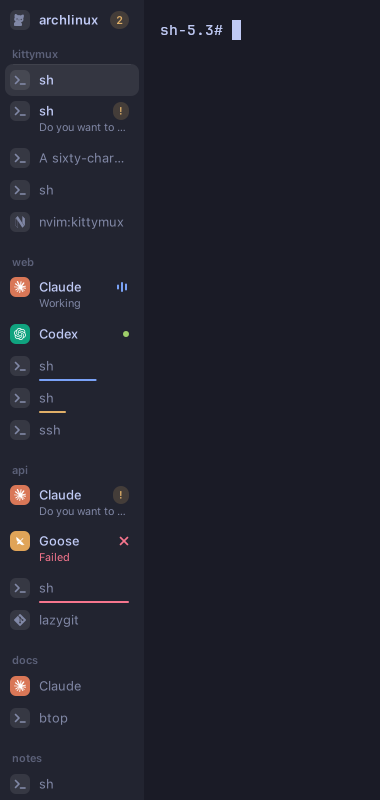
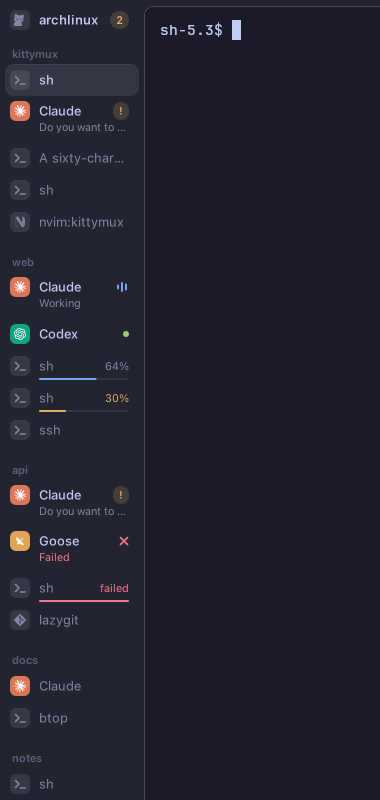
Pixel tab bar, tested on the real compositor (Hyprland, 1.33x): glass (the picture's alpha follows background_opacity, a little denser than the terminal), the terminal a rounded card resting on the bar's material (the shader insets it 6 px and rounds 10 px), the hover half a step under the active ca

diff --git a/python/kittymux_pxbar.py b/python/kittymux_pxbar.py
@@ -53,12 +53,13 @@ def publish(os_window_id: int, groups, pal, host: str = "") -> bool:
         clear(os_window_id)
         return False
     right, fb_h, scale = m
+    alpha = material_alpha()
     rows = [r for g in groups for r in g.rows]
     active = next((r.tab_id for r in rows if r.active), 0)
     view = _S.view.setdefault(os_window_id, {"start": 0, "user": False, "active": active})
     if view["active"] != active:                 # you moved to another tab: the view follows it again
         view.update(user=False, active=active)
-    sig = (tuple(groups), pal, right, fb_h, scale, host, view["start"], view["user"])
+    sig = (tuple(groups), pal, right, fb_h, scale, host, view["start"], view["user"], alpha)
     w = _S.windows.get(os_window_id)
     if w is not None and w.get("sig") == sig:
         return False
@@ -67,13 +68,15 @@ def publish(os_window_id: int, groups, pal, host: str = "") -> bool:
     pic = None
     for _ in range(4):                           # at most a few renders: the "↑ above" band changes how many fit
         pic = bp.render(groups, pal, width=right / scale, height=fb_h / scale, scale=scale, host=host,
-                        resources=_resources(), start=view["start"])
+                        resources=_resources(), start=view["start"], alpha=alpha)
         i = next((k for k, r in enumerate(rows) if r.tab_id == active), None)
         if view["user"] or i is None or pic.start <= i < pic.start + max(1, pic.shown):
             break
-        view["start"] = i if i < pic.start else max(0, i - max(1, pic.shown) + 1)
+        shown = max(1, pic.shown)
+        margin = min(MARGIN, max(0, shown - 1) // 2)          # a little context around the active tab, never past the ends
+        view["start"] = max(0, i - margin) if i < pic.start else max(0, i - shown + 1 + min(margin, len(rows) - 1 - i))
     view["start"] = pic.start
-    sig = (tuple(groups), pal, right, fb_h, scale, host, view["start"], view["user"])
+    sig = (tuple(groups), pal, right, fb_h, scale, host, view["start"], view["user"], alpha)
     from kitty.fast_data_types import get_boss, mark_os_window_dirty, wakeup_main_loop
     get_boss().set_background_image(PLACEHOLDER, (os_window_id,), False, "clamped", png_data=pic.png)
     mark_os_window_dirty(os_window_id)
@@ -92,6 +95,26 @@ def page(os_window_id: int, direction: int) -> None:
     step = max(1, int(w.get("shown") or 1) - 1)
     view["start"] = max(0, min(int(w.get("total") or 0) - 1, view["start"] + direction * step))
     view["user"] = True
+
+
+def glass_alpha(opacity) -> float:
+    """The sidebar as material: a little denser than the terminal's background_opacity (a structural surface reads
+    heavier than the content beside it), opaque when the window is."""
+    try:
+        op = float(opacity)
+    except (TypeError, ValueError):
+        return 1.0
+    if op >= 1.0:
+        return 1.0
+    return round(min(1.0, op + (1.0 - op) * 0.35), 3)
+
+
+def material_alpha() -> float:
+    try:
+        from kitty.fast_data_types import get_options
+        return glass_alpha(getattr(get_options(), "background_opacity", 1.0))
+    except Exception:
+        return 1.0
 
 
 def configured_background(opts) -> tuple:
@@ -133,6 +156,7 @@ def band_at(os_window_id: int, x_px: float, y_px: float):
     return None
 
 
+MARGIN = 2              # tab rows kept in view beyond the active one when the view follows it
 CLOSE_W = 34            # logical px at a row's right end that are the close cross (matches the shader's cover)
 TITLE_LINE = 32         # logical px: the cross sits in a row's first line
 

diff --git a/python/kittymux_barpx.py b/python/kittymux_barpx.py
@@ -170,7 +170,29 @@ def _end(pt: dp.Painter, row: G.Row, right, cy, p, narrow) -> float:
         w = pt.text_w(row.age, T_META, family=UI, tnum=True)
         pt.text(right - w, cy, row.age, T_META, tone, family=UI, tnum=True)
         return w
+    if row.progress and row.progress[0] not in ("indeterminate",):
+        pst, pct = row.progress
+        label = "failed" if pst == "error" else f"{max(0, min(100, int(pct or 0)))}%"
+        tone = {"error": p.alert, "paused": p.waiting}.get(pst, p.muted)
+        w = pt.text_w(label, T_META, family=UI, tnum=True)
+        pt.text(right - w, cy, label, T_META, tone, family=UI, tnum=True)
+        return w
     return 0
+
+
+def _progress(pt: dp.Painter, x, y, w, row: G.Row, p):
+    """OSC 9;4 progress under the row: a faint track the length of the text column and its fill, so it reads as progress and
+    not as an underline. Indeterminate fills the track at half strength."""
+    pst, pct = row.progress
+    c, a = pt.veil(0.08)
+    pt.fill_rrect(x, y, w, 2, 1, c, a)
+    col = {"error": p.alert, "paused": p.waiting}.get(pst, p.working)
+    if pst == "indeterminate":
+        pt.fill_rrect(x, y, w, 2, 1, col, 0.45)
+        return
+    frac = 1.0 if pst == "error" else max(0.0, min(1.0, (pct or 0) / 100))
+    if frac > 0:
+        pt.fill_rrect(x, y, max(2.0, w * frac), 2, 1, col)
 
 
 RAIL_MAX = 130      # logical px: narrower than this the bar is the rail (tiles only, a state dot on each tile)
@@ -354,10 +376,7 @@ def render(groups, pal: th.Palette, width: int, height: int, *, host: str = "", 
                 mt = {"waiting": pal.muted, "alert": pal.alert, "working": pal.muted}.get(row.meta_tone, pal.faint)
                 pt.text(tx, y + 31, row.meta, T_META, mt, family=UI, width=max(10, right - tx))
             if row.progress:
-                pst, pct = row.progress
-                frac = 1.0 if pst in ("error", "indeterminate") else max(0.0, min(1.0, (pct or 0) / 100))
-                col = {"error": pal.alert, "paused": pal.waiting}.get(pst, pal.working)
-                pt.fill_rrect(tx, y + h - 3, (right - tx) * frac, 2, 1, col)
+                _progress(pt, tx, y + h - 4, right - tx, row, pal)
             hits.append(Hit("tab", y0, y1, tab_id=row.tab_id))
             y += h
     below = total - start - shown

diff --git a/tests/test_pxbar.py b/tests/test_pxbar.py
@@ -186,7 +186,7 @@ class ViewportFollowTest(unittest.TestCase):
         PX._S.windows.clear()
         PX._S.view.clear()
 
-        def fake_render(groups, pal, width, height, scale, host, resources, start):
+        def fake_render(groups, pal, width, height, scale, host, resources, start, alpha=1.0):
             total = sum(len(g.rows) for g in groups)
             start = max(0, min(start, total - 1))
             shown = min(10, total - start)
@@ -209,7 +209,7 @@ class ViewportFollowTest(unittest.TestCase):
 
     def test_the_active_tab_is_scrolled_into_view(self):
         PX.publish(3, self.groups(35), None)
-        self.assertEqual(PX._S.view[3]["start"], 25)          # rows 26..35: the active 35th is the last one shown
+        self.assertEqual(PX._S.view[3]["start"], 27)          # rows 28..37: the active 35th with two more under it
 
     def test_a_page_click_scrolls_and_stays_until_you_change_tab(self):
         PX.publish(3, self.groups(5), None)
@@ -218,9 +218,17 @@ class ViewportFollowTest(unittest.TestCase):
         PX.publish(3, self.groups(5), None)
         self.assertEqual(PX._S.view[3]["start"], 9)           # a page is the rows shown less one, so one row carries over
         PX.publish(3, self.groups(2), None)
-        self.assertEqual(PX._S.view[3]["start"], 1)           # you went to tab 2 (row index 1): the view starts on it
+        self.assertEqual(PX._S.view[3]["start"], 0)           # you went to tab 2 (row index 1): back in view, one row of context above
 
     def test_clearing_the_picture_forgets_the_view(self):
         PX.publish(3, self.groups(35), None)
         PX.clear(3)
         self.assertNotIn(3, PX._S.view)
+
+
+class GlassTest(unittest.TestCase):
+    def test_the_sidebar_is_a_little_denser_than_the_terminal(self):
+        self.assertEqual(PX.glass_alpha(1.0), 1.0)
+        self.assertEqual(PX.glass_alpha(0.85), 0.902)
+        self.assertGreater(PX.glass_alpha(0.6), 0.6)
+        self.assertEqual(PX.glass_alpha("bogus"), 1.0)

diff --git a/docs/agents/layout.md b/docs/agents/layout.md
@@ -19,7 +19,7 @@ Part of the agent guide: start at [AGENTS.md](../../AGENTS.md) (the rules and th
 - `python/kittymux_wmfocus.py` — the one Hyprland focus, `focus_address`. A probe with a fake address (`window not found` means that dispatcher exists) chooses `hl.dsp.focus({window = 'address:…'})` or the older `focuswindow address:`. `lib/mux.sh` `focus_hyprland_by_title` (the agent picker, `focus_os_window_by_id`, `focus_moved_window`) shells out to it. Never `focuswindow pid:`.
 - `python/kittymux_layout.py` — layout engine; loaded via `geninclude` so its
   output must come LAST in kitty.conf (it wins over earlier tab_bar_* lines). `cards_pipeline` (via `kittymux_cards`, pure) writes the cards shader's pipeline into the state dir with this kitty's cell height, the glass flag and the OSC 9;4 fill colours; the shipped pipeline is the same text with the defaults.
-- The pixel tab bar (`pxbar` switch, plan 015): `python/kittymux_groups.py` (pure) groups `Row`s by project in kitty's order and folds big settled groups; `python/kittymux_barpx.py` (pure, cairo + pango + rsvg through `kittymux_deckpx.Painter`) draws them and returns the PNG and its hit bands (header, group labels, tabs); column 0 of the picture is a row map (one marker colour per tab row, alternating) for the shader; `python/kittymux_pxbar.py` (in kitty, state in `sys.modules["_kittymux_pxbar_rt"]`) sets the picture as the OS window's background image when it changed, keeps the bands, and owns the close cross (`close_tab`, the close guard's rule) and the folds; `tab_bar._draw_px` draws blank default-background cells and builds the rows from the same helpers the cell bar uses (`_px_row`); `kittymux_barsize.pxbar_tab_at` answers kitty's `tab_id_at` from the bands and `_pxbar_click` takes the cross and label clicks; `assets/shaders/kittymux-pxbar.slang` draws the hover band and the cross (the geninclude emits it instead of the cards pipeline). `kittymux_agents.TOOL_MARKS` maps tools to `assets/icons`. The close guard's state lookup is `kittymux_closeguard.window_states` (close-kit and the cross share it).
+- The pixel tab bar (`pxbar` switch, plan 015): `python/kittymux_groups.py` (pure) groups `Row`s by project in kitty's order and folds big settled groups; `python/kittymux_barpx.py` (pure, cairo + pango + rsvg through `kittymux_deckpx.Painter`) draws them and returns the PNG and its hit bands (header, group labels, tabs); column 0 of the picture is a row map (one marker colour per tab row, alternating) for the shader, ending in a run of 8 × scale px (`scale_marker`) from which the shader reads the device scale; `render(start=…)` scrolls the rows and adds "up"/"down" bands; `python/kittymux_pxbar.py` (in kitty, state in `sys.modules["_kittymux_pxbar_rt"]`) sets the picture as the OS window's background image when it changed, keeps the bands, and owns the close cross (`close_tab`, the close guard's rule) and the folds; `tab_bar._draw_px` draws blank default-background cells and builds the rows from the same helpers the cell bar uses (`_px_row`); `kittymux_barsize.pxbar_tab_at` answers kitty's `tab_id_at` from the bands and `_pxbar_click` takes the cross and label clicks; `assets/shaders/kittymux-pxbar.slang` draws the hover band, the cross and the terminal's rounded card on the bar's material, comparing colours gamma-encoded (the geninclude emits it instead of the cards pipeline; `kittymux_pxbar.cross_shown` reads `custom_shaders`, so no shader means no close target). `kittymux_pxbar` keeps each window's scroll (`_S.view`, follows the active tab unless you paged) and draws with `glass_alpha(background_opacity)`. `kittymux_agents.TOOL_MARKS` maps tools to `assets/icons`. The close guard's state lookup is `kittymux_closeguard.window_states` (close-kit and the cross share it).
 - `python/tab_bar.py` — custom tab bar (two-line vertical rows, brand icons,
   compact rail rendering; helper modules `kittymux_*.py` reload every config load)
 - `python/pane-state.py` — kitty `watcher`: hook status + titles →

diff --git a/CHANGELOG.md b/CHANGELOG.md
@@ -5,7 +5,7 @@ Format: [Keep a Changelog](https://keepachangelog.com/). Versions follow [SemVer
 ## [Unreleased]
 
 ### Added
-- **The pixel tab bar (`kittymux settings on pxbar`, opt-in).** The vertical tab bar drawn as a picture inside the kitty window, as Rex's sidebar looks: tabs grouped under their project (in kitty's order, so nothing moves under the pointer), one row per tab with the agent's or program's real mark on a tile, the title, and one end mark (a working loader, a done dot, a failure cross, the needs-you chip); a second line only when it has something to say (the question, what failed, "Working · 3m"). Under the pointer a row lifts and its end turns into a close cross; clicking it closes the tab, and a working or waiting agent asks on its row first (a second click closes). Large groups of settled tabs fold to their label; clicking the label opens them. Needs cairo, pango and rsvg; the hover and the cross need kitty's custom shaders (kitty 0.49 or newer with `slangc`). Your own `background_image` is replaced while it is on. Off, the cell bar is exactly as before.
+- **The pixel tab bar (`kittymux settings on pxbar`, opt-in).** The vertical tab bar drawn as a picture inside the kitty window, as Rex's sidebar looks: tabs grouped under their project (in kitty's order, so nothing moves under the pointer), one row per tab with the agent's or program's real mark on a tile, the title, and one end mark (a working loader, a done dot, a failure cross, the needs-you chip); a second line only when it has something to say (the question, what failed, "Working · 3m"). Under the pointer a row lifts and its end turns into a close cross; clicking it closes the tab, and a working or waiting agent asks on its row first (a second click closes). Large groups of settled tabs fold to their label; clicking the label opens them. More tabs than fit: the bar scrolls so the tab you are in stays on screen with a little room around it, and "↑ N above" / "↓ N below" page when clicked. Progress (OSC 9;4) is a track with its fill and the percent. With `background_opacity` below 1 the bar is glass, a little denser than the terminal, and the terminal rests on it as a card with rounded corners (Rex's look); the hover is half a step under the active card and lifts a settled title. Needs cairo, pango and rsvg; the hover, the cross and the card need kitty's custom shaders (kitty 0.49 or newer with `slangc`), and without them no click closes a tab. Your own `background_image` is replaced while it is on and comes back when it is off; the picture also goes when the bar moves to the right edge or the kittymux client attaches, and a picture that fails to draw falls back to the cell bar. Off, the cell bar is exactly as before.
 - **`tests/shot_states.sh`**: every agent state and edge case on one screen, dark and light, at three widths, plus 40 tabs.
 
 ### Changed
